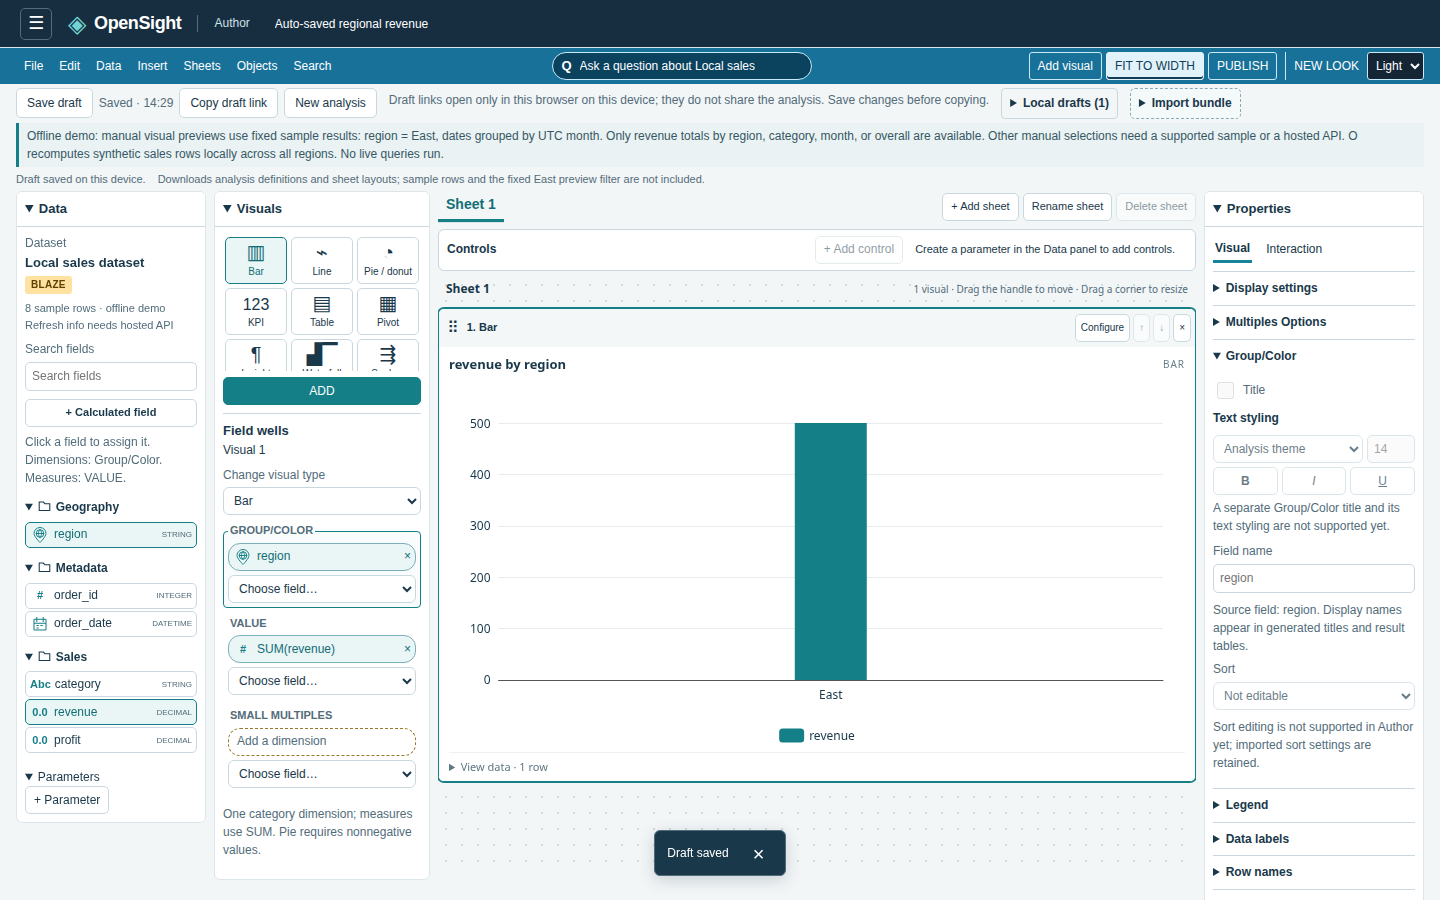
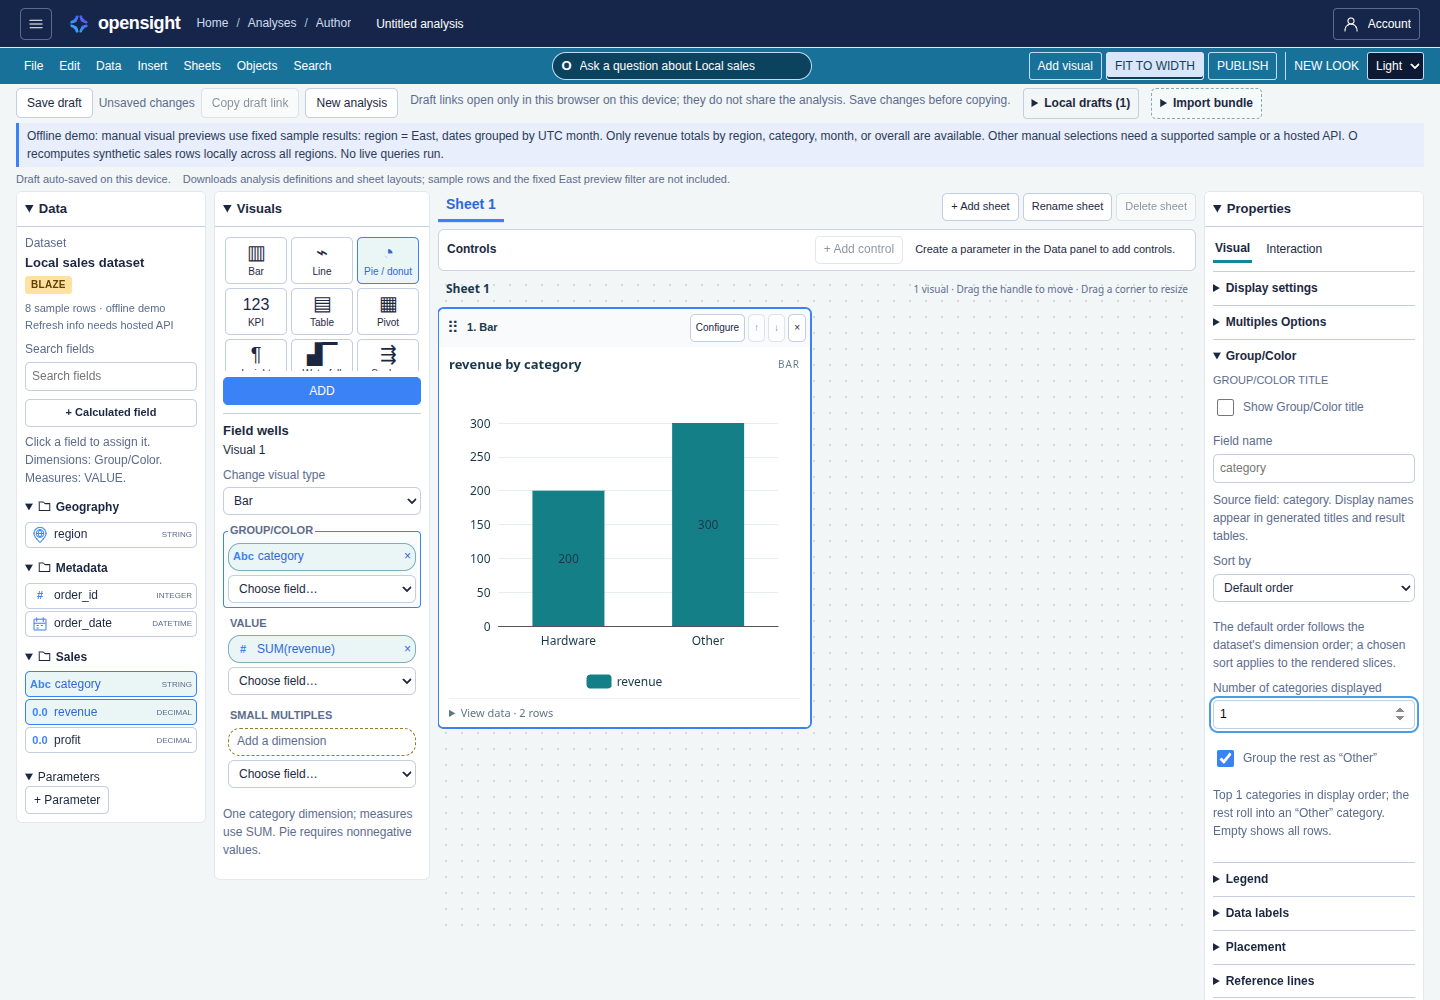
Parity category limit: 5. document semantics and offline captures

diff --git a/docs/parity-category-limit-gap-notes.md b/docs/parity-category-limit-gap-notes.md
@@ -1,0 +1,71 @@
+# Category limits: offline captures and gaps
+
+`npm run build:demo --workspace @opensight/web` passed, including strict
+TypeScript and embed builds. The local single-file demo is 2,490,213 bytes.
+The supervisor's `build-demo-shim.mjs` was not run. This is a local static
+artifact, not a deployed server.
+
+`packages/web/scripts/capture-category-limit.mjs` loaded that rebuilt demo
+from `file://`, blocked HTTP/HTTPS, and recorded **zero page errors and zero
+external requests**. It exercised INCLUDE/EXCLUDE, invalid-count retention,
+clearing, save/reload, view-data and changes to all five newly supported kinds.
+For the pinned bar sample, the unlimited rows are Hardware=200, Software=300;
+a count of one produces Hardware=200, Other=300, and EXCLUDE keeps Hardware=200.
+Compiler tests cover multi-row sums beyond this two-category demo sample.
+
+The captures use 1440×1000, reduced motion, 12px Arial controls, and have no
+horizontal page overflow in either light or dark mode:
+
+- [Limited bar, light / refreshed README Properties screenshot](images/properties-panels.png)
+- [Limited bar, dark](images/parity-category-limit-bar-dark.png)
+- [Limited bar with view-data](images/parity-category-limit-bar-data.png)
+
+Additional unlimited, EXCLUDE, line, area, combo and percentage-bar captures,
+plus `acceptance.json`, are under `.opensight/parity-category-limit/browser/`.
+The build and capture logs are `/tmp/opensight-category-demo-build.log` and
+`/tmp/opensight-category-capture.log`.
+
+Compared the bar and Category limit captures with the local reference
+`qs-2026/qs-properties-group-color.jpg`. Data → Visuals → canvas ordering,
+docked Properties, compact labels and the count control's position before
+Legend remain consistent. Line/area/combo expose only the new limit section,
+without adding Group/Color sort controls. The existing larger explanatory
+text, card geometry, legend placement and offline disclosures still differ
+from the reference; visual fidelity is not measured. No new presentation gap
+was found. No GitHub issue was filed because the brief prohibits network access
+and identifies this as a phase-plan fallback with no issue.
+
+The README hero GIF was deliberately not regenerated: the tour never sets a
+category limit, as explicitly ruled in the brief. The README Properties
+screenshot was refreshed because that feature image shows the changed
+Group/Color section; its caption now describes the working category limit.
+
+## Verification and scope
+
+The focused compiler, pie, facet, forecast and Properties run passed
+**164 passed / 0 failed / 0 skipped**, including 53 new category-limit tests
+and the base compiler suite. Its old rejection of a valid bar limit now checks
+an out-of-range limit instead.
+Strict TypeScript checks passed. The final full root `TZ=UTC npm test` run
+exited **0**: **5,783 passed / 0 failed / 37 skipped**, 5,820 total tests and
+no cancellations. This includes all 2,823 web tests, 32 Python SDK tests and
+110 root conformance/site tests. All 37 skips require live PostgreSQL
+(35 API, 2 query engine).
+
+The full log is `/tmp/opensight-category-root-verified.log`; the per-workspace
+counts are `/tmp/opensight-category-test-counts.json`. The successful run used:
+
+```sh
+OPENSIGHT_CHROMIUM="$HOME/.cache/ms-playwright/chromium_headless_shell-1243/chrome-headless-shell-linux64/chrome-headless-shell" TZ=UTC npm test
+```
+
+The sandbox prevents Chromium startup (`Operation not permitted`) and hides
+individual child-test results. Full-suite verification and captures therefore
+run outside that sandbox, using the installed Playwright headless shell via
+`OPENSIGHT_CHROMIUM`; no browser download or dependency change is needed.
+
+The one brief mismatch is the grouped-bar end-to-end case: this checkout
+rejects its second dimension before the limit pass. The production shared
+transform is directly tested with grouped/faceted rows while the existing
+parser restriction remains, as detailed in [the semantics doc](parity-category-limit.md#grouped-row-scope).
+No query engine, sorting behavior or grouped-bar renderer was added.

diff --git a/docs/parity-category-limit.md b/docs/parity-category-limit.md
@@ -1,0 +1,63 @@
+# Category limits — parity-category-limit
+
+This phase-plan fallback slice computes `CategoryItemsLimit` for bar,
+100% stacked bar, line, area and combo, alongside the existing pie support.
+It follows the supplied run brief without changing `SOLUTION_DESIGN.md`,
+adding dependencies or changing query execution.
+
+Native `SortConfiguration.CategoryItemsLimit` and internal
+`sortConfiguration.categoryItemsLimit` accept an integer count from 1–100
+and `OtherCategories`/`otherCategories` of `INCLUDE` (the default) or `EXCLUDE`.
+Invalid counts, enums and unknown compiler properties fail closed. An absent
+count preserves the existing “no slice limit specified; all supplied result
+rows are shown” warning; no QuickSight default count is assumed.
+
+Within each facet panel, distinct category values rank by first appearance
+in the existing display order. An explicit category sort runs first. All rows
+for each of the first N categories are retained. This is display-order
+limiting, not an implicit measure-ranked top-N calculation: the existing
+QuickSight sorting divergence remains intentional.
+
+With INCLUDE, remaining categories merge into `Other` rows keyed by the
+remaining dimensions. Measures sum independently and remain null if every
+contributing value is null. Extra tooltip fields are cleared. When categories
+are actually collapsed, a retained literal `Other` folds into the bucket,
+without promoting another category into its place. EXCLUDE drops the remaining
+categories and leaves any retained literal `Other` untouched. Unset and
+non-binding limits preserve rows and extras. Pie retains its previous sum
+order, null-slice rejection and literal-Other semantics.
+
+Source duplicates fail before limiting. Facet limits run before category
+limits, including when a literal `Other` facet and the merged `Other` panel
+have identical titles. Category limiting runs before option building, so chart
+series, detailed tooltips, conditional formatting and view-data share the
+limited rows. Percentage bars normalize the merged measures afterward and
+retain their nonnegative/non-null requirement. Line/area forecasts fit the
+remaining dated rows; a synthetic `Other` date is invalid and invokes the
+existing explicit “forecast was not rendered” warning.
+
+Properties exposes **Number of categories displayed** and **Group the rest
+as Other** in bar/percentage-bar Group/Color, and in a Category limit section
+for line/area/combo. Pie keeps its exact slice wording. Invalid input retains
+the last valid value; clearing removes the limit. Draft storage and editable
+bundle/native import/export preserve the same `sliceLimit` shape and validation.
+
+All other visual kinds still reject category limits: KPI, table, pivot,
+insight, waterfall, scatter, funnel, gauge, treemap, heatmap, box plot, word
+cloud, histogram, filled/point maps, radar and Sankey. Existing key gates and
+the legacy “slice limits are only computed for pie visuals” error remain
+unchanged for unsupported kinds.
+
+## Grouped-row scope
+
+The brief assumed bar charts accepted a second group/color dimension. This
+checkout rejects both a second category dimension and a nonempty Colors well.
+That existing parser/rendering restriction remains. The shared compiler
+transform supports and directly tests category × color rows within facets,
+including interleaved rows, independent Other sums, nulls and literal-Other
+folding. A grouped-bar end-to-end compiler test remains outside this slice;
+enabling grouped-bar parsing/rendering requires its own specification.
+
+Tests in `packages/web/test/category-limit.test.mjs`, the existing pie
+regressions and Properties tests run through the web test glob in root
+`npm test`. See [capture and verification notes](parity-category-limit-gap-notes.md).

diff --git a/docs/properties-panels.md b/docs/properties-panels.md
@@ -13,7 +13,8 @@ and definition format.
 | CARD STYLE | — | Background, border and selection colors/opacity, border width, loading animation setting |
 | CARD LAYOUT | — | Per-card padding |
 | Multiples Options | Visible rows/columns, layout panel cap, panel title size/bold/italic/alignment, border/width/color, gutter/background; assigned facets also expose Number of panels displayed and Group the rest as Other | Panel-title underline and dashed/dotted borders are saved but render without underline/with solid borders |
-| Group/Color | Field display name in generated titles and result tables; clearing restores the source name | Separate group title, text styling, Author sort editing, slice limit |
+| Group/Color | Field display name; explicit field sort; Number of slices displayed for pie or Number of categories displayed for bar/percentage bar, with an optional Other bucket | Separate group title is saved but not drawn |
+| Category limit | Number of categories displayed and optional Other for line, area and combo | — |
 | Legend | Visibility; Auto/Top/Bottom/Left/Right placement | Separate legend title and its typography; per-visual legend value typography |
 | Data labels | Visibility; decimal precision, including clearing back to automatic | Independent category/metric controls, position, typography and overlap |
 
@@ -33,10 +34,13 @@ Unsupported kinds retain the field but block preview/export with
 `SMALL_MULTIPLES_UNSUPPORTED` until it is removed.
 
 Group/Color appears for the visual types with that well: bar, percentage bar
-and pie. Slice count is pie-specific. The field-name input is disabled until
+and pie. Pie keeps its slice wording; the other category-axis charts use
+category wording. Invalid counts keep the last valid value; clearing removes
+the limit. See [category-limit semantics](parity-category-limit.md).
+The field-name input is disabled until
 a grouping field is assigned. It edits the existing display-name map, never
-the source column or field binding. Sort editing remains unavailable in the
-Author model; imported sort settings are retained by the existing bundle path.
+the source column or field binding. Group/Color sort uses a bound dimension
+or measure with an explicit direction and round-trips through the bundle path.
 
 Legend and Data labels retain the existing visual-kind capability gates.
 Auto legend position renders at the bottom, as before; explicitly saved

diff --git a/CHANGELOG.md b/CHANGELOG.md
@@ -23,6 +23,8 @@ Unreleased entries into a new version section (see AGENTS.md §1).
 
 ### Added
 
+- Bar, 100% stacked bar, line, area and combo charts now compute category limits with optional Other buckets, per-panel display-order semantics, editable Properties controls and native/bundle round-trips (phase-plan fallback: parity-category-limit; no GitHub issue).
+
 - Insight anomaly computations now detect unusually high or low dated values with deterministic median/MAD statistics, optional direction and sensitivity filters, and an **Anomaly (date required)** authoring preset. Native and bundle configurations round-trip; insufficient data is reported honestly. This is statistical detection, not QuickSight's ML (phase-plan fallback: insight-anomaly; no GitHub issue).
 
 - Prep join diagnostics show matched output rows, unmatched rows per side, and fan-out multiplicities on bounded preview samples with explicit truncation provenance (#286). Local DuckDB/PostgreSQL and hosted admitted SQL sources share the same counts and one ten-second deadline; unsupported full-payload/cache inputs report a named unavailable error, and the static demo remains schema-only.

diff --git a/README.md b/README.md
@@ -176,9 +176,11 @@ with the draft and supports Undo/Redo; available sample data stays unselected.
 The Properties dock groups card title/style/layout, Multiples Options,
 Group/Color, Legend and Data labels. Existing title, display-name, legend and
 label settings work; unsupported controls are disabled with visible reasons.
+Bar, percentage bar, line, area and combo charts also expose a category count
+and optional Other bucket; pie retains its slice-limit controls.
 See [properties controls and limits](docs/properties-panels.md).
 
-![Group/Color properties with a working display name and explicit unsupported controls](docs/images/properties-panels.png)
+![Group/Color properties with a category limit and optional Other bucket](docs/images/properties-panels.png)
 
 Radar uses Category axes, an optional Color split, and one or more Values
 measures. Nulls remain gaps; unsupported native options appear in the import
